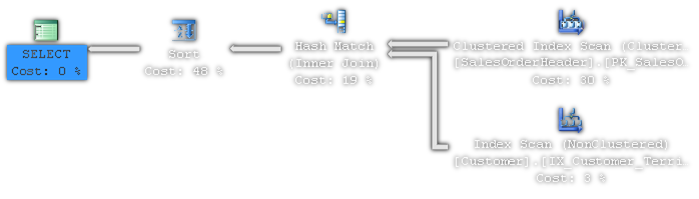
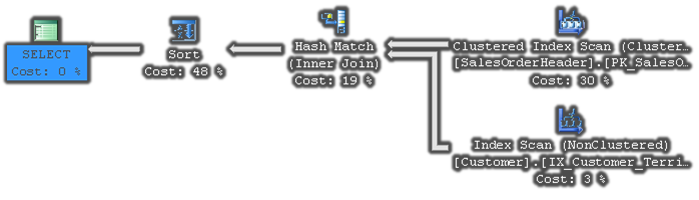
Added homework for 12. Database Performance Fixed image glow

Changed region(s): [[0.0, 0.0302, 0.9914, 0.9648]]

diff --git a/14. Database Performance/Homework/README.md b/14. Database Performance/Homework/README.md
@@ -1,0 +1,12 @@
+## Database Performance
+### _Homework_
+
+1.  Create a table in SQL Server with 10 000 000 log entries (date + text).
+  * Search in the table by date range. Check the speed (without caching).
+1.  Add an index to speed-up the search by date.
+  * Test the search speed (after cleaning the cache).
+1.  Add a full text index for the text column.
+  * Try to search with and without the full-text index and compare the speed.
+1.  Create the same table in MySQL and partition it by date (1990, 2000, 2010).
+  * Fill 1 000 000 log entries.
+  * Compare the searching speed in all partitions (random dates) to certain partition (e.g. year 1995).

diff --git a/14. Database Performance/README.md b/14. Database Performance/README.md
@@ -1,4 +1,4 @@
-## 00. 
+## 14. Database Performance
 ### [View Presentation online](https://rawgit.com/TelerikAcademy/Databases/master/14.%20Database%20Performance/Slides/index.html)
 ### Table of Contents
 * [DB Performance Factors - [go to slide](https://rawgit.com/TelerikAcademy/Databases/master/14.%20Database%20Performance/Slides/index.html#/db-performance)
